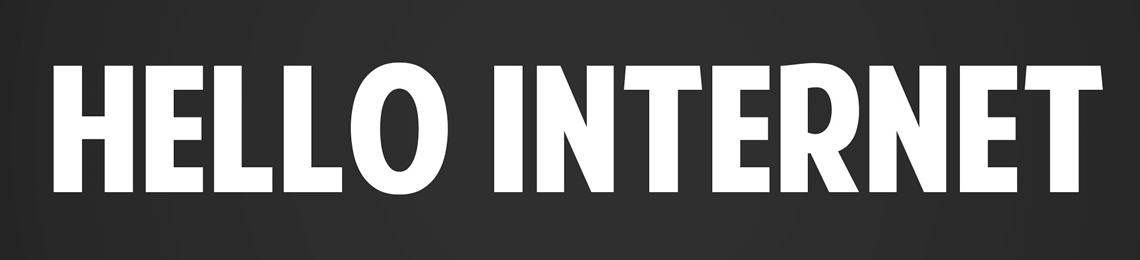
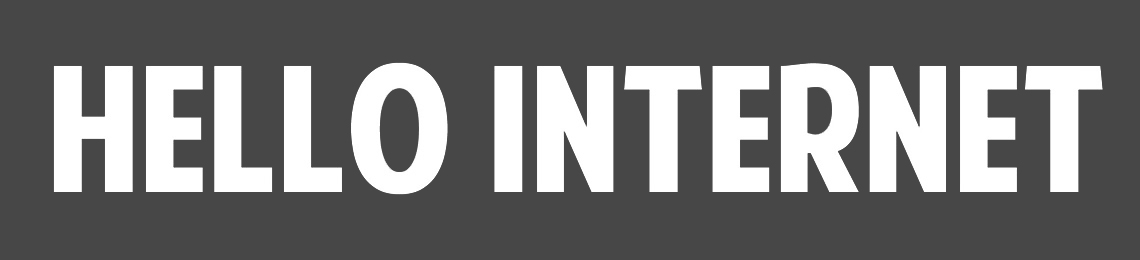
background color

diff --git a/css/main.css b/css/main.css
@@ -1,0 +1,18 @@
+/************************
+HELLO INTERNET MAIN CSS
+************************/
+/****************
+GENRAL
+****************/
+header{
+  display: flex;
+  justify-content: center;
+  align-items: center;
+  flex-direction: column;
+}
+body{
+  background: #474747;
+}
+/****************
+HEADING
+****************/

diff --git a/Bingo.html b/Bingo.html
@@ -4,6 +4,7 @@
     <meta charset="utf-8">
     <title>HI | Home</title>
     <link rel="stylesheet" href="css/normalize.css">
+    <link rel="stylesheet" href="css/main.css">
   </head>
   <body>
     <header class="mainHeader">
